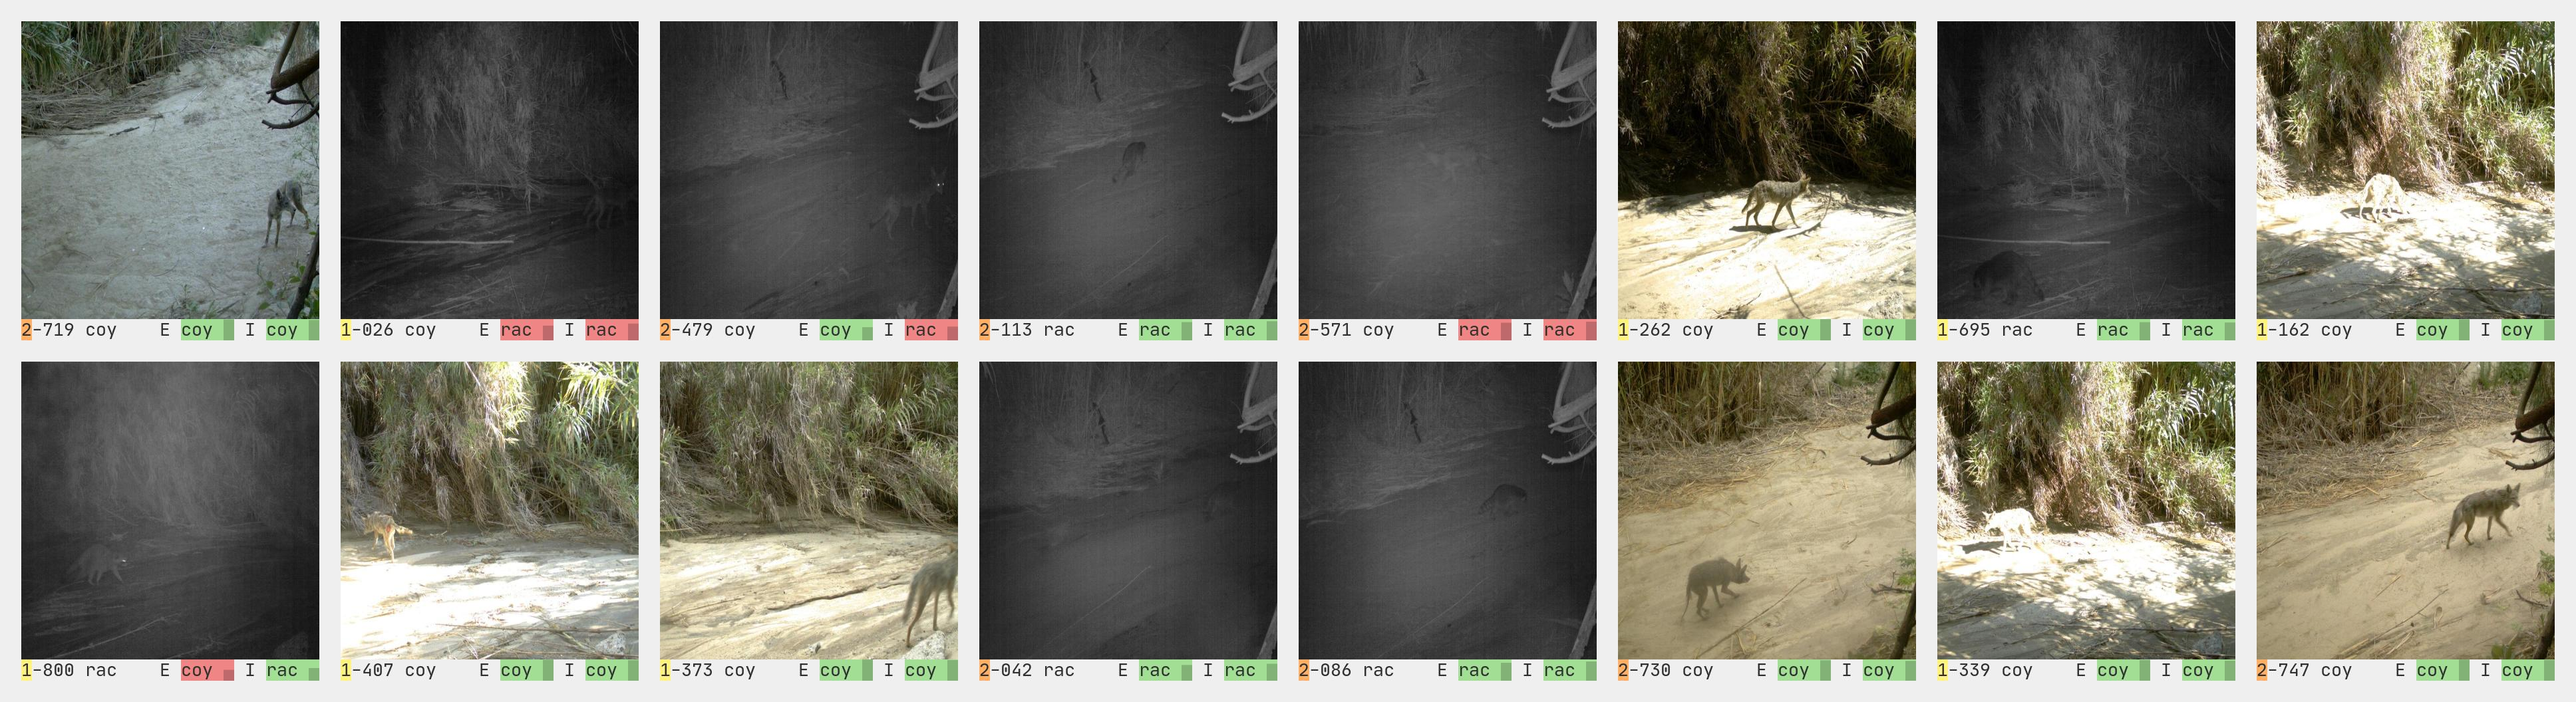
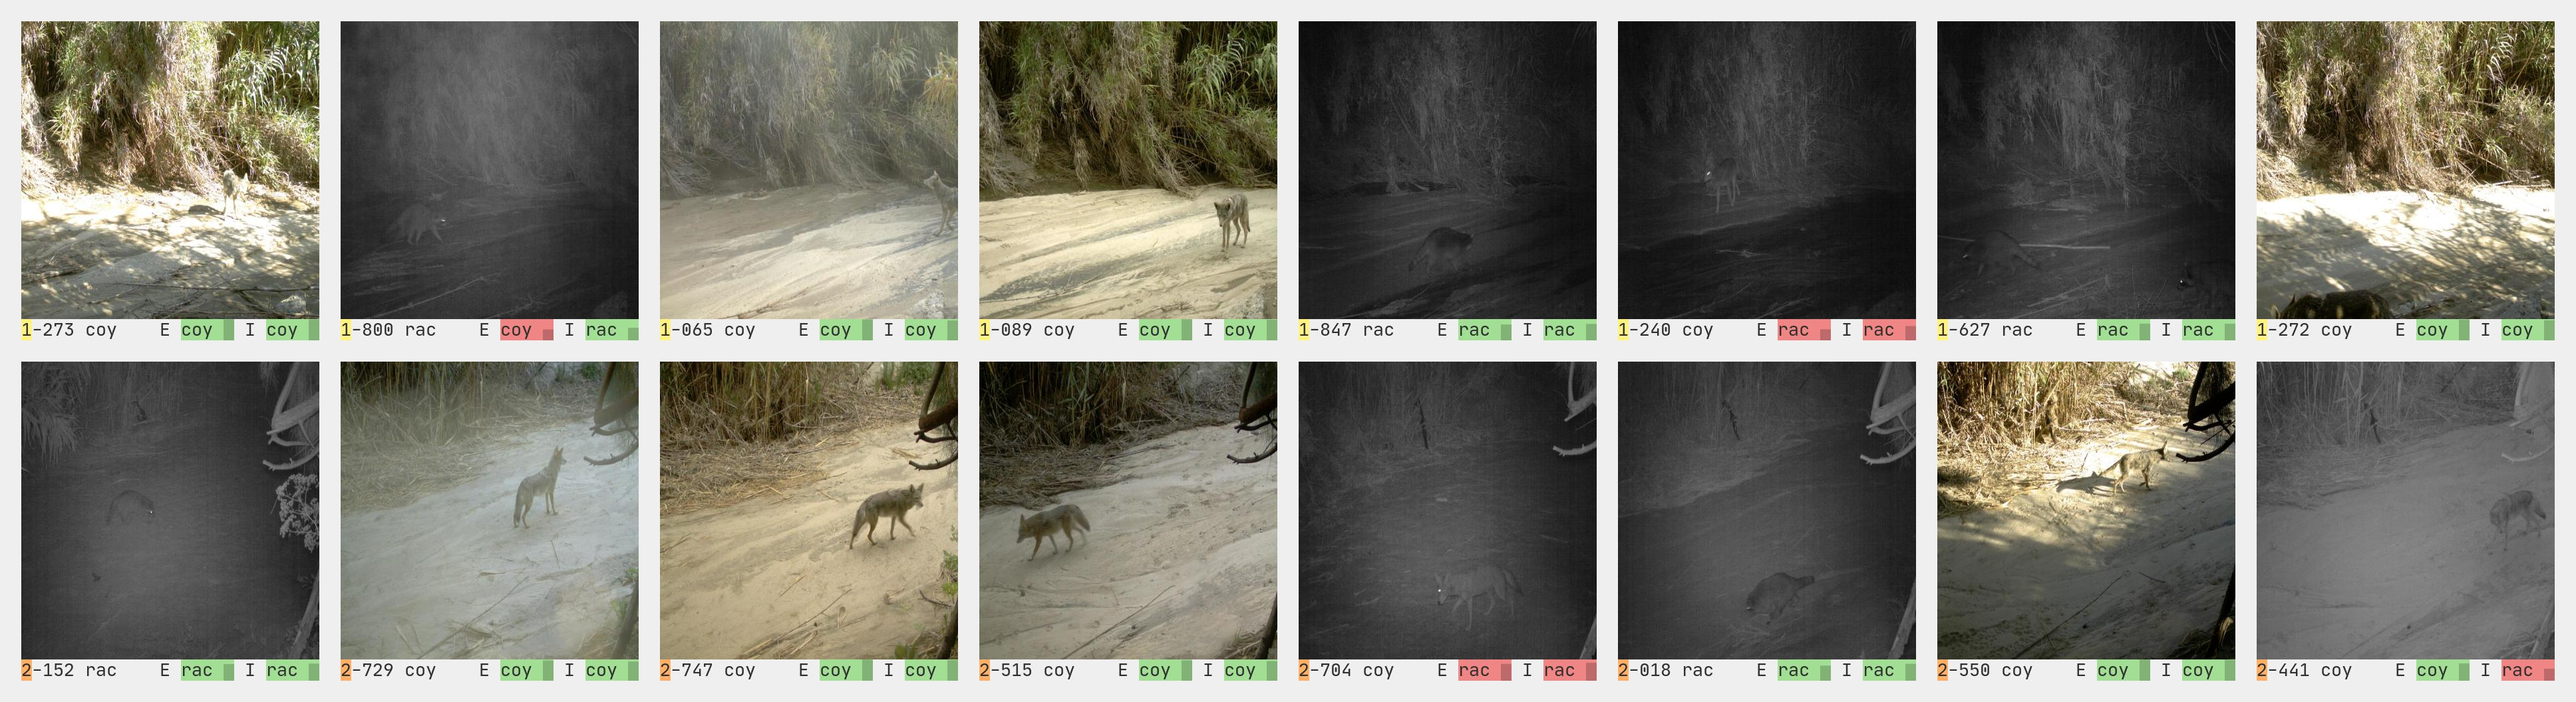
rewrite panel 2

diff --git a/build_index.js b/build_index.js
@@ -555,7 +555,7 @@ let content_2 = `<div class="padded">
   <h1>Model training</h1>
   <div>
    <div class="p">We trained two models, one using IRM, and one using the more conventional empirical risk minimization (ERM).</div>
-    <div class="p">For ERM training, all the images are fed in together (top row), with no distinction made between environments. In IRM training, the images are grouped by environment (bottom row) and the loss function is adjusted to try and balance performance across both environments.</div>
+    <div class="p">The environments are fed into both models in batches. For the IRM model, the loss function is adjusted to try and balance classification performance across each environment. The adjusted loss function is what distinguishes IRM from the ERM approach.</div>
   </div>
 </div>`
 
@@ -575,25 +575,12 @@ if (args.includes('2')) {
 
   let promises = []
 
-  let eight = [..._.sampleSize(train_43, 4), ..._.sampleSize(train_46, 4)]
-
-  // doing it the dumb way
-  let images = [
-    eight[0],
-    eight[4],
-    eight[1],
-    eight[5],
-    eight[2],
-    eight[6],
-    eight[3],
-    eight[7],
-    ...eight,
-  ]
+  let images = [..._.sampleSize(train_43, 8), ..._.sampleSize(train_46, 8)]
   for (let i = 0; i < images.length; i++) {
     let image = images[i]
     let [bx, by] = panel_image_slots[i]
-    let x = bx * size.x + offset_x
-    let y = by * size.y + offset_y
+    let x = offset_x + bx * size.x
+    let y = offset_y + by * size.y
     let path = 'data' + image.image_path
 
     let env = getEnv(path)
@@ -747,14 +734,17 @@ if (args.includes('3')) {
   })
 
   let images = [
-    ..._.sampleSize(train_43_right, 6),
-    ..._.sampleSize(train_43_irm_only_right, 1),
-    ..._.sampleSize(train_43_wrong, 1),
-    ..._.sampleSize(train_46_right, 6),
-    ..._.sampleSize(train_46_wrong, 1),
-    ..._.sampleSize(train_46_erm_only_right, 1),
+    ..._.shuffle([
+      ..._.sampleSize(train_43_right, 6),
+      ..._.sampleSize(train_43_irm_only_right, 1),
+      ..._.sampleSize(train_43_wrong, 1),
+    ]),
+    ..._.shuffle([
+      ..._.sampleSize(train_46_right, 6),
+      ..._.sampleSize(train_46_wrong, 1),
+      ..._.sampleSize(train_46_erm_only_right, 1),
+    ]),
   ]
-  images = _.shuffle(images)
   for (let i = 0; i < images.length; i++) {
     let image = images[i]
     let [bx, by] = panel_image_slots[i]
@@ -1326,7 +1316,7 @@ let content_6 = `<div class="padded">
   <h1>Ranking superpixels</h1>
   <div>
     <div class="p">Here we show an example image with the top contributing superpixels, as determined by LIME, highlighted for each model. If you look at the image showing the "top 9" features, you can see that for the IRM model (top row) the coyote body is highlighted, while in the ERM model (bottom row) it is not.</div>
-    <p>This kind of result would seem to indicate that the IRM model is better able to focus on the invariant features (the animal) versus the variant (the background environment). That could be the explanation for why it performs better on the the environment <span style="background: ${highlights.brown};">3</span> dataset, which neither model has seen before.
+    <p>This kind of result would seem to indicate that the IRM model is better able to focus on the invariant features (the animal) versus the variant (the background environment). That could be the explanation for why it performs better on the environment <span style="background: ${highlights.brown};">3</span> dataset, which neither model has seen before.
   </div>
 </div>`
 
@@ -1526,7 +1516,7 @@ if (args.includes('6')) {
 let content_7 = `<div class="padded">
   <h1>Model comparison</h1>
   <div>
-  <p> If all the of the model oomparison looked like example <span style="background: ${highlights.brown};">3</span>-433, we could confidently say the IRM model is better at recognizing the animal across environments. <span style="background: ${highlights.brown};">3</span>-433 is only one example, however, and while it is definitely possible to find other images where the IRM highlighted features include the animal and the ERM do not (as in the examples shown here, where the top 12 features for each model are highlighted) it is definitely not the case for all of the images.</p> 
+  <p> If all the of the model comparison looked like example <span style="background: ${highlights.brown};">3</span>-433, we could confidently say the IRM model is better at recognizing the animal across environments. <span style="background: ${highlights.brown};">3</span>-433 is only one example, however, and while it is definitely possible to find other images where the IRM highlighted features include the animal and the ERM do not (as in the examples shown here, where the top 12 features for each model are highlighted) it is definitely not the case for all of the images.</p> 
   <p>Looking through the entire dataset shows a lot of variation in which superpixels are highlighted for each model. The lack of a consistent, obvious pattern in the top features could mean neither model is successfully isolating the animal features, or it could mean this interpretability approach is not capable of visually capturing their focus (or it could be both).</div>
   </div>
 </div>`

diff --git a/index.html b/index.html
@@ -188,7 +188,7 @@ font-family: custom; font-size: 15px; line-height: 1.2; padding-left: 3ch; margi
   <h1>Model training</h1>
   <div>
    <div class="p">We trained two models, one using IRM, and one using the more conventional empirical risk minimization (ERM).</div>
-    <div class="p">For ERM training, all the images are fed in together (top row), with no distinction made between environments. In IRM training, the images are grouped by environment (bottom row) and the loss function is adjusted to try and balance performance across both environments.</div>
+    <div class="p">The environments are fed into both models in batches. For the IRM model, the loss function is adjusted to try and balance classification performance across each environment. The adjusted loss function is what distinguishes IRM from the ERM approach.</div>
   </div>
 </div></div>
         </div>
@@ -278,7 +278,7 @@ font-family: custom; font-size: 15px; line-height: 1.2; padding-left: 3ch; margi
   <h1>Ranking superpixels</h1>
   <div>
     <div class="p">Here we show an example image with the top contributing superpixels, as determined by LIME, highlighted for each model. If you look at the image showing the "top 9" features, you can see that for the IRM model (top row) the coyote body is highlighted, while in the ERM model (bottom row) it is not.</div>
-    <p>This kind of result would seem to indicate that the IRM model is better able to focus on the invariant features (the animal) versus the variant (the background environment). That could be the explanation for why it performs better on the the environment <span style="background: #B5A272;">3</span> dataset, which neither model has seen before.
+    <p>This kind of result would seem to indicate that the IRM model is better able to focus on the invariant features (the animal) versus the variant (the background environment). That could be the explanation for why it performs better on the environment <span style="background: #B5A272;">3</span> dataset, which neither model has seen before.
   </div>
 </div></div>
         </div>
@@ -294,7 +294,7 @@ font-family: custom; font-size: 15px; line-height: 1.2; padding-left: 3ch; margi
           <div style="position: absolute; left: 1px; top: 0px; width: 464px; height: 528px; background: rgba(255,255,255,0.98);"><div class="padded">
   <h1>Model comparison</h1>
   <div>
-  <p> If all the of the model oomparison looked like example <span style="background: #B5A272;">3</span>-433, we could confidently say the IRM model is better at recognizing the animal across environments. <span style="background: #B5A272;">3</span>-433 is only one example, however, and while it is definitely possible to find other images where the IRM highlighted features include the animal and the ERM do not (as in the examples shown here, where the top 12 features for each model are highlighted) it is definitely not the case for all of the images.</p> 
+  <p> If all the of the model comparison looked like example <span style="background: #B5A272;">3</span>-433, we could confidently say the IRM model is better at recognizing the animal across environments. <span style="background: #B5A272;">3</span>-433 is only one example, however, and while it is definitely possible to find other images where the IRM highlighted features include the animal and the ERM do not (as in the examples shown here, where the top 12 features for each model are highlighted) it is definitely not the case for all of the images.</p> 
   <p>Looking through the entire dataset shows a lot of variation in which superpixels are highlighted for each model. The lack of a consistent, obvious pattern in the top features could mean neither model is successfully isolating the animal features, or it could mean this interpretability approach is not capable of visually capturing their focus (or it could be both).</div>
   </div>
 </div></div>
